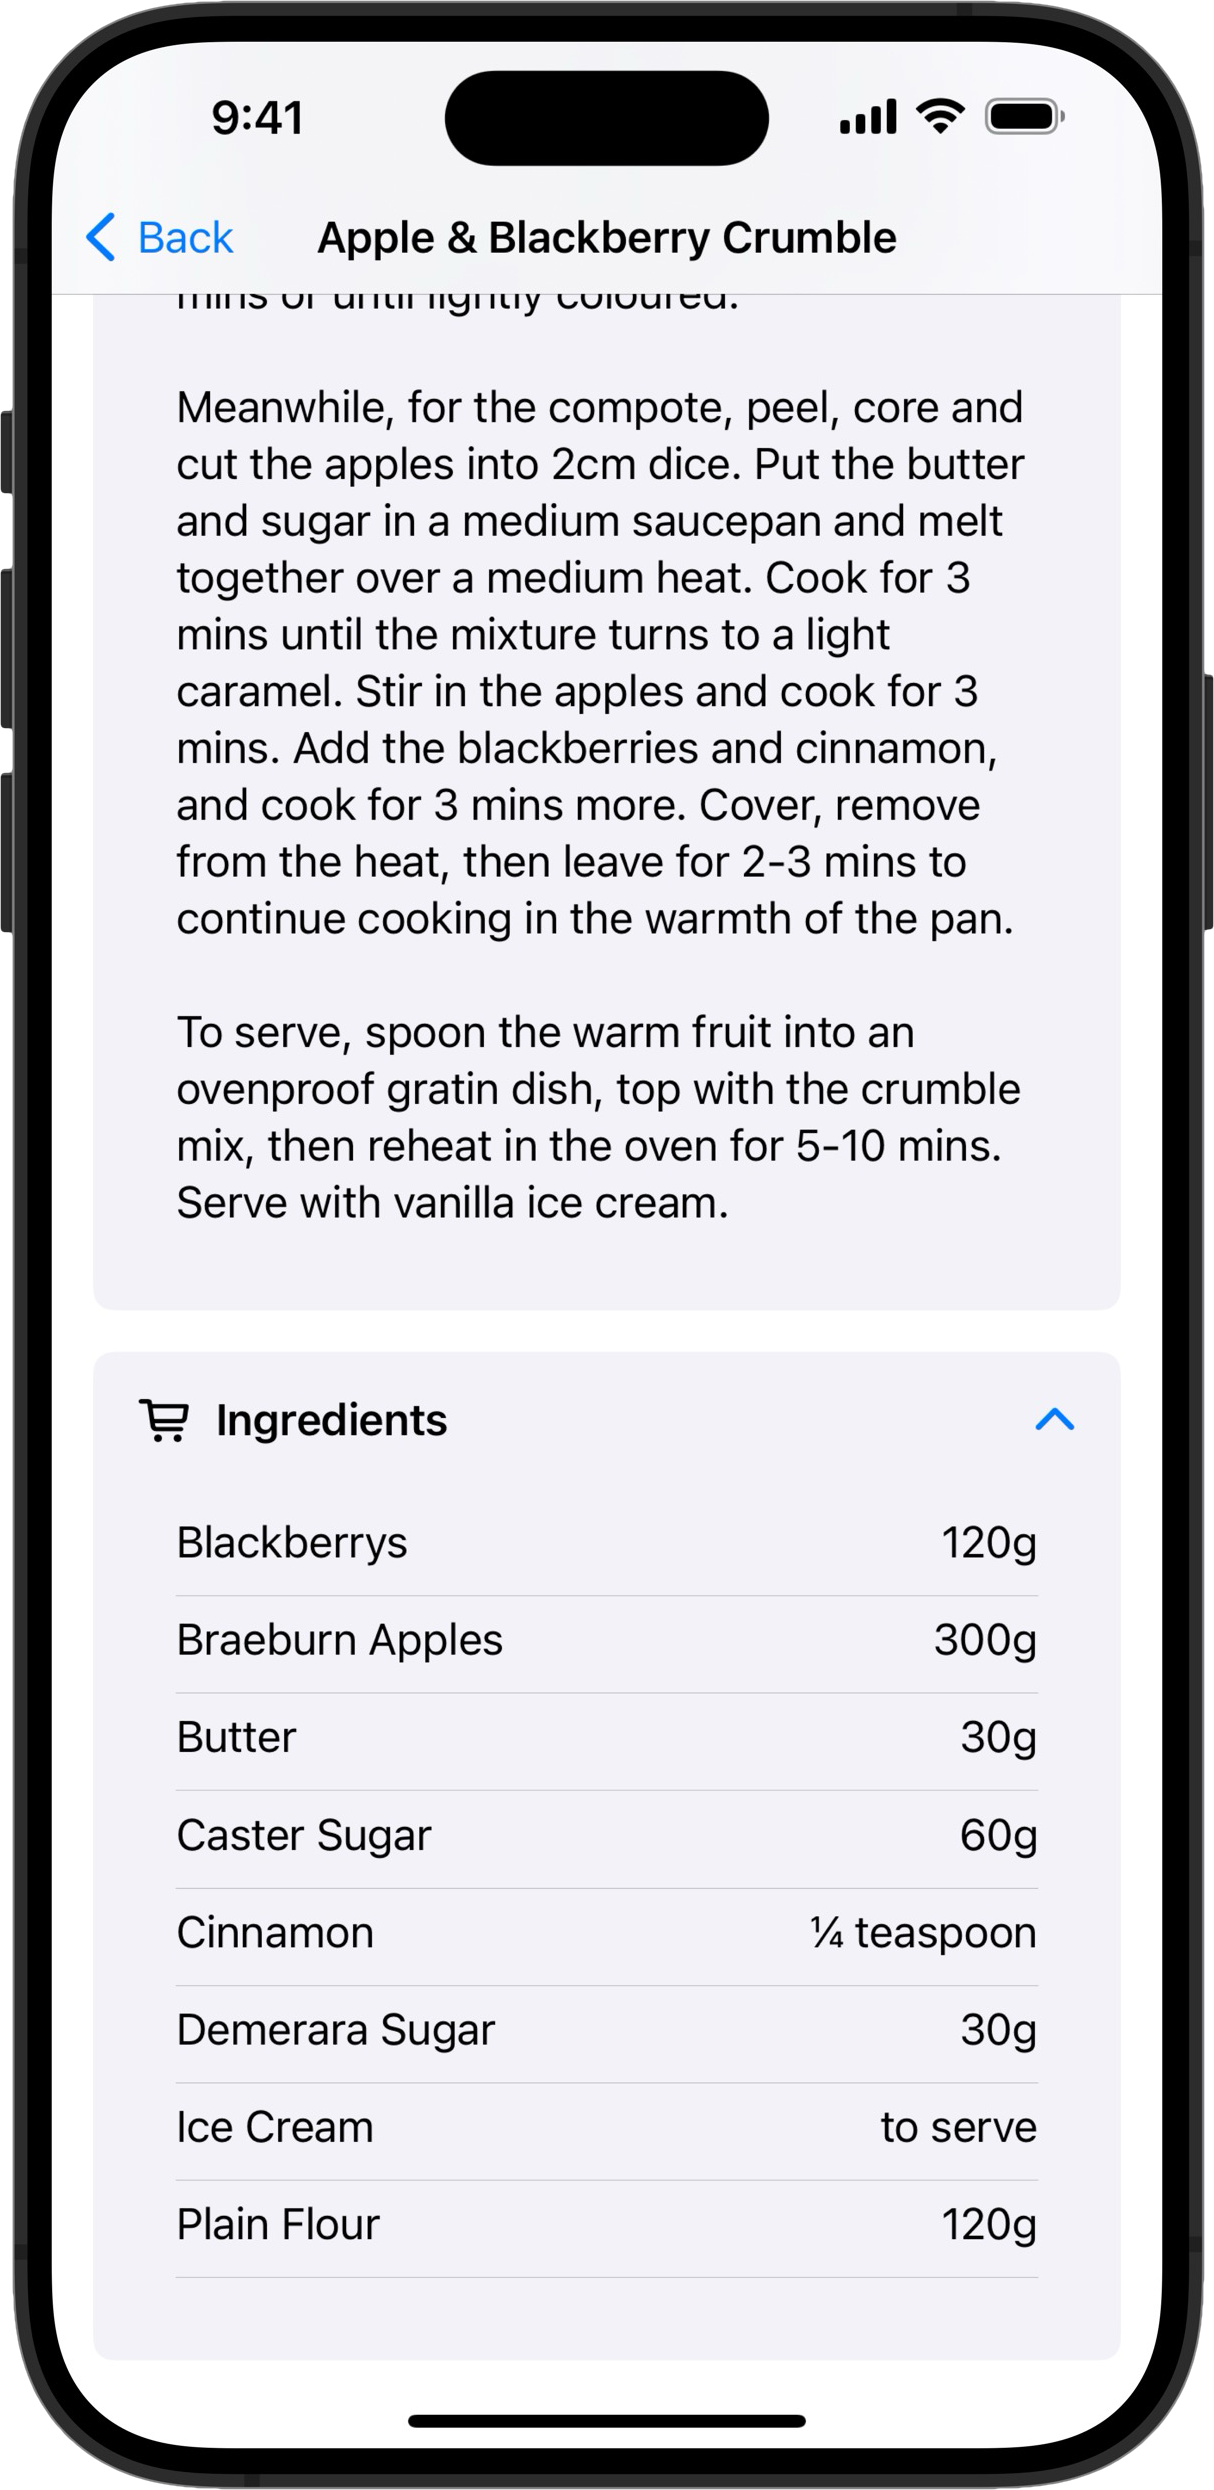
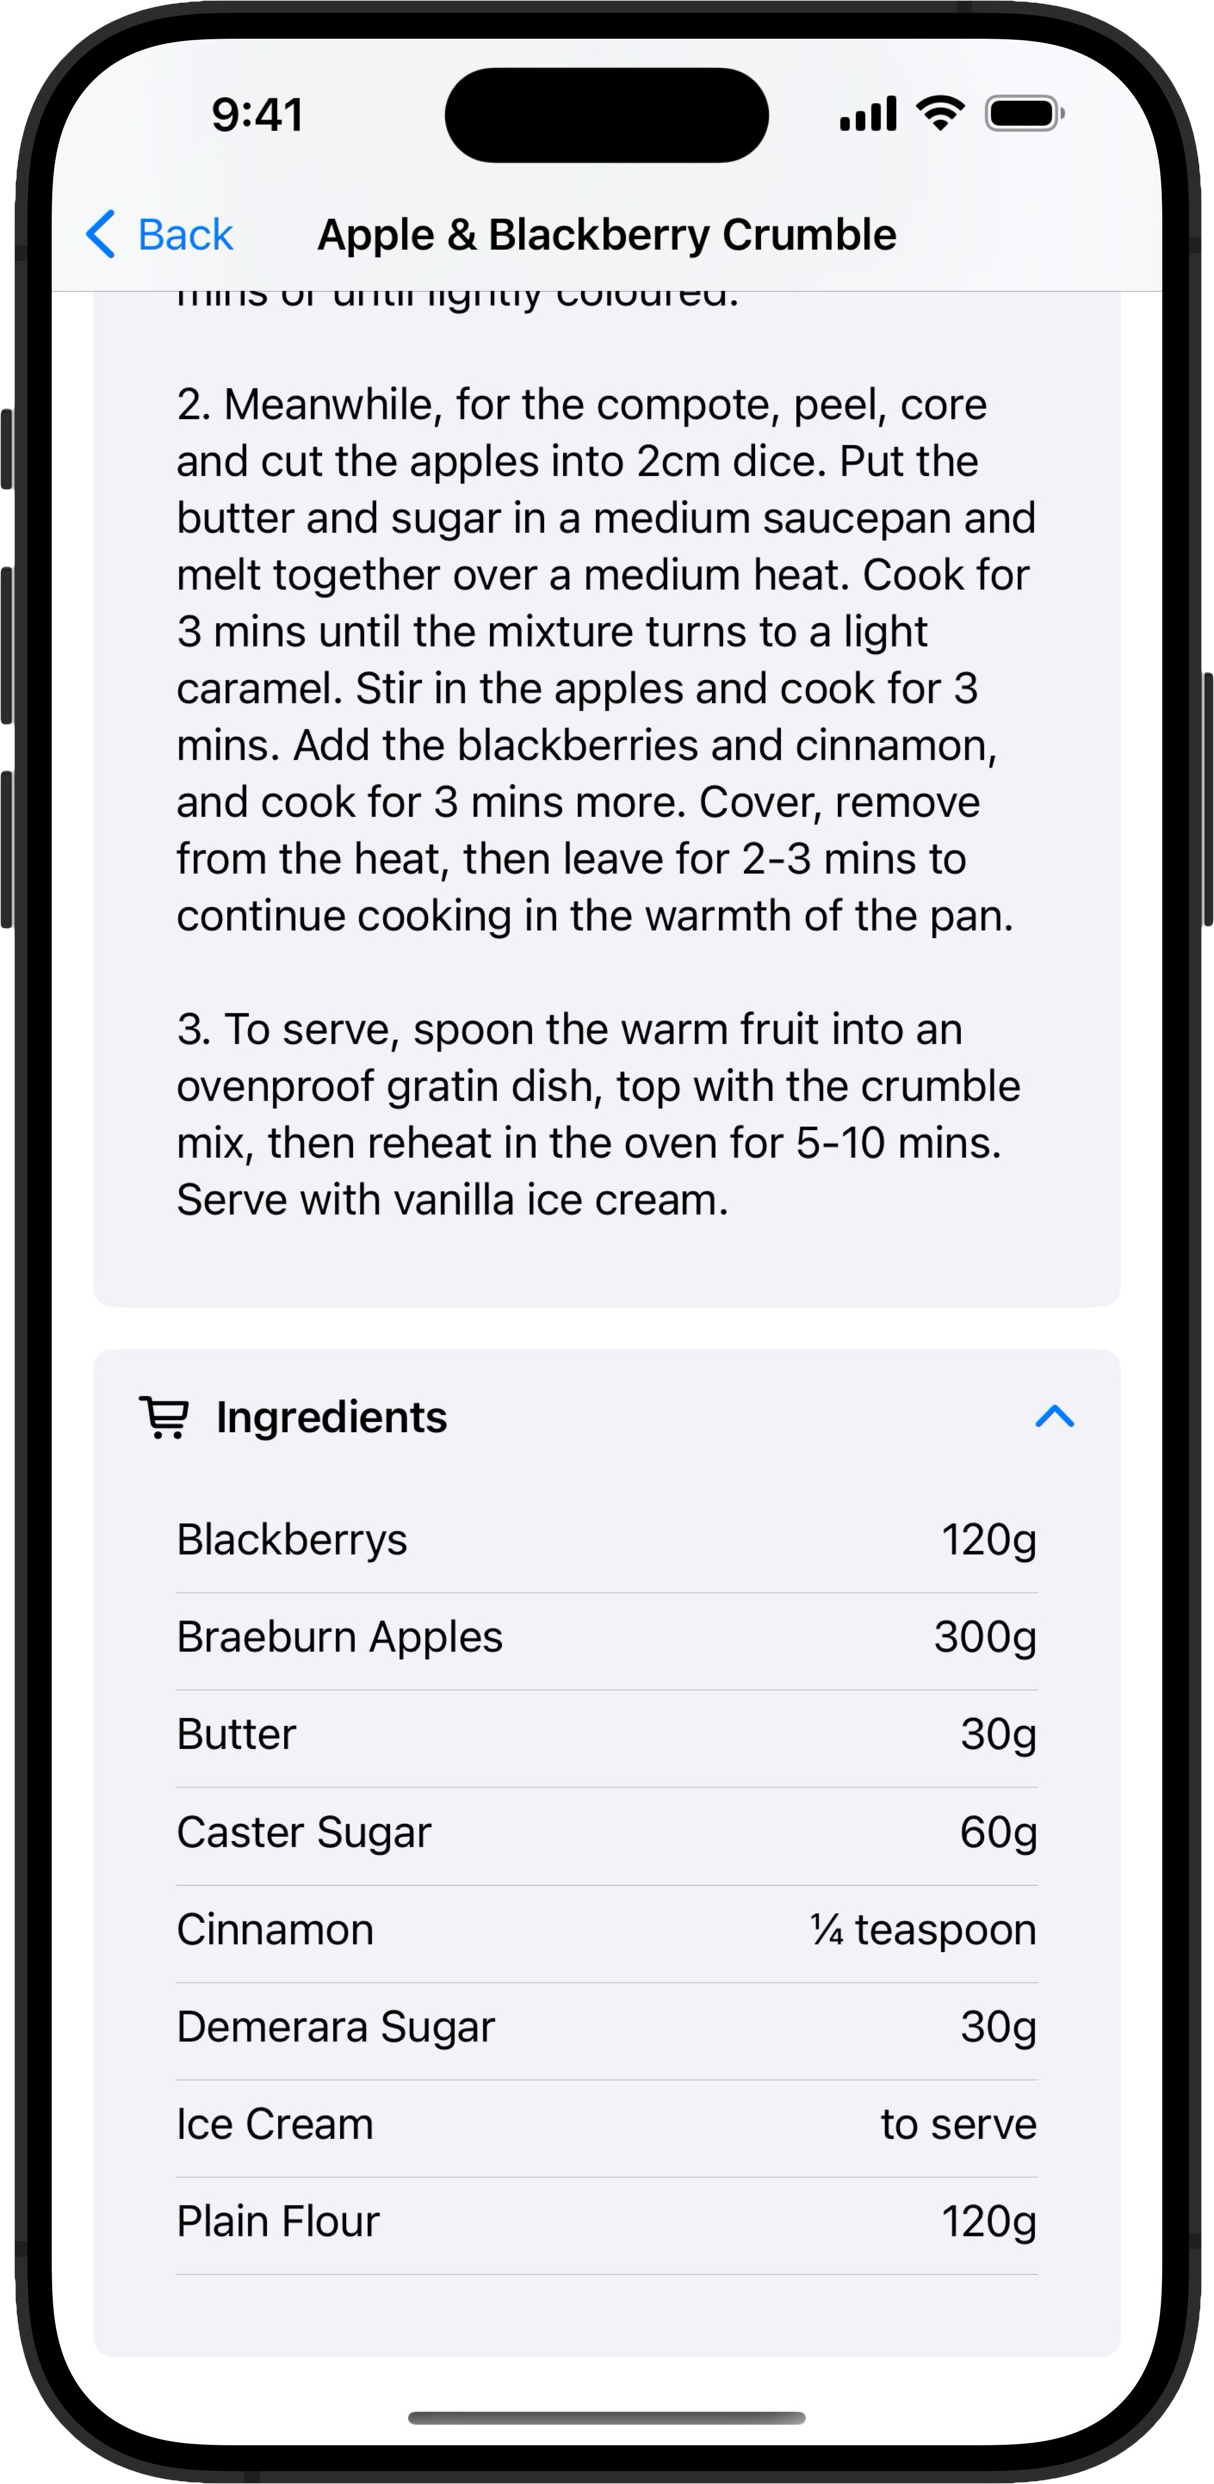
Add numbering to the instructions

diff --git a/Dessertly/Models/DessertDetail.swift b/Dessertly/Models/DessertDetail.swift
@@ -73,15 +73,25 @@ struct DessertDetail: Decodable {
         ingredients = ingredientsDict
     }
     
-    /// Reformats the given text by trimming whitespace and adding double newlines between paragraphs.
+    /// Reformats the given text by trimming whitespace, adding double newlines between paragraphs,
+    /// and numbering each paragraph starting from 1.
+    /// - Parameter text: The input text to be reformatted.
+    /// - Returns: A string where each paragraph is numbered and separated by double newlines.
     static func reformatText(_ text: String) -> String {
         // Normalize line breaks to '\n' and split into paragraphs
         let paragraphs = text.replacingOccurrences(of: "\r\n", with: "\n")
             .replacingOccurrences(of: "\r", with: "\n")
             .split(separator: "\n", omittingEmptySubsequences: true)
         
+        // Enumerate paragraphs and add a number to each one
+        let numberedParagraphs = paragraphs.enumerated().map { index, paragraph in
+            return "\(index + 1). \(paragraph)"
+        }
+        
         // Join paragraphs with double line breaks
-        return paragraphs.joined(separator: "\n\n").trimmingCharacters(in: .whitespacesAndNewlines)
+        return numberedParagraphs
+            .joined(separator: "\n\n")
+            .trimmingCharacters(in: .whitespacesAndNewlines)
     }
     
     struct DynamicCodingKeys: CodingKey {
